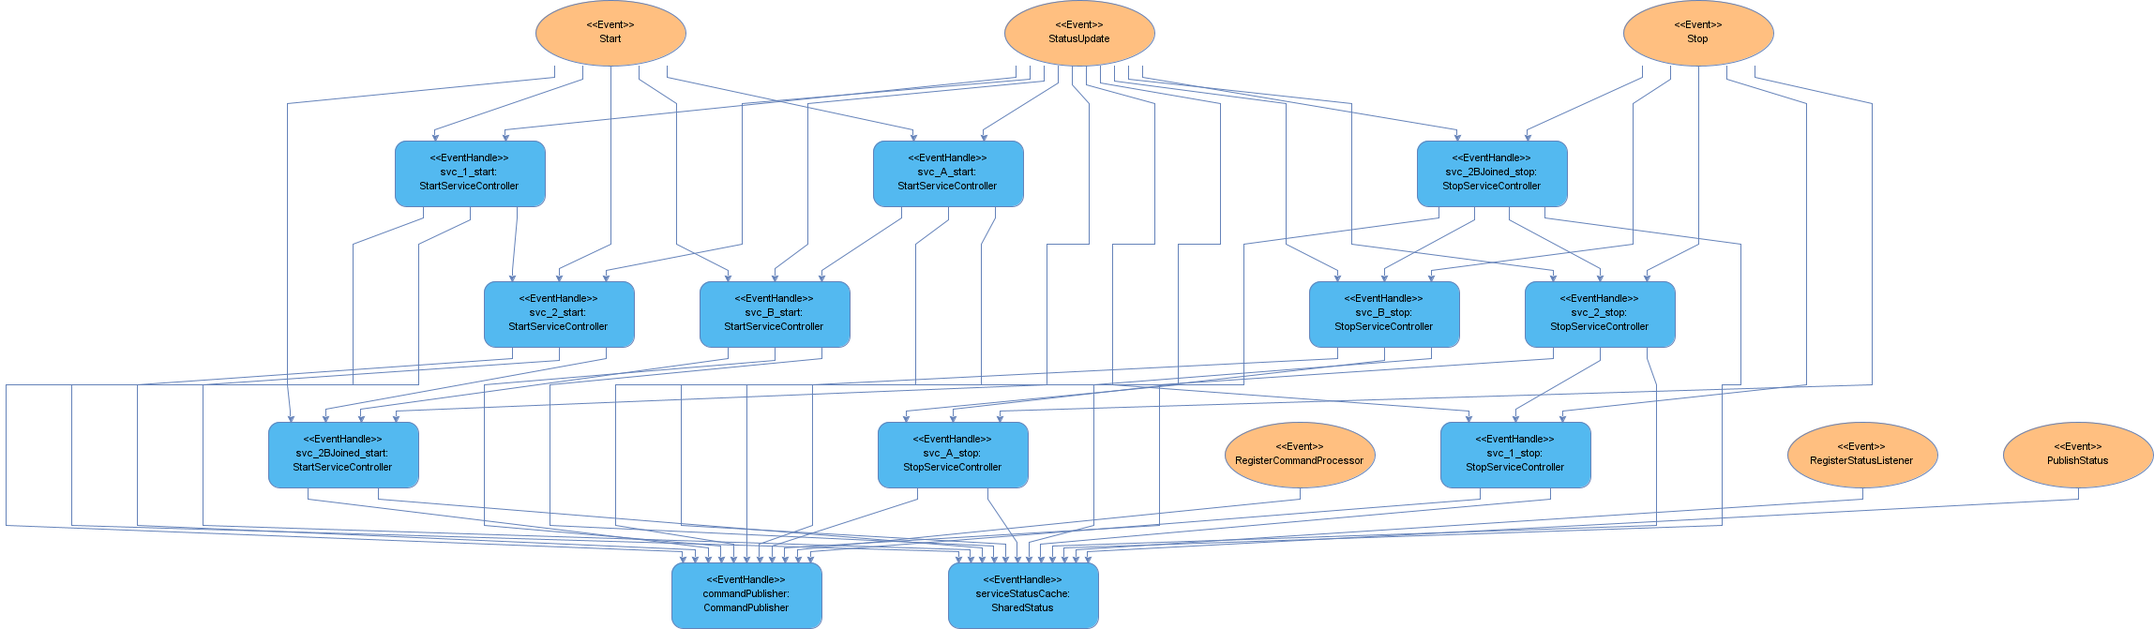
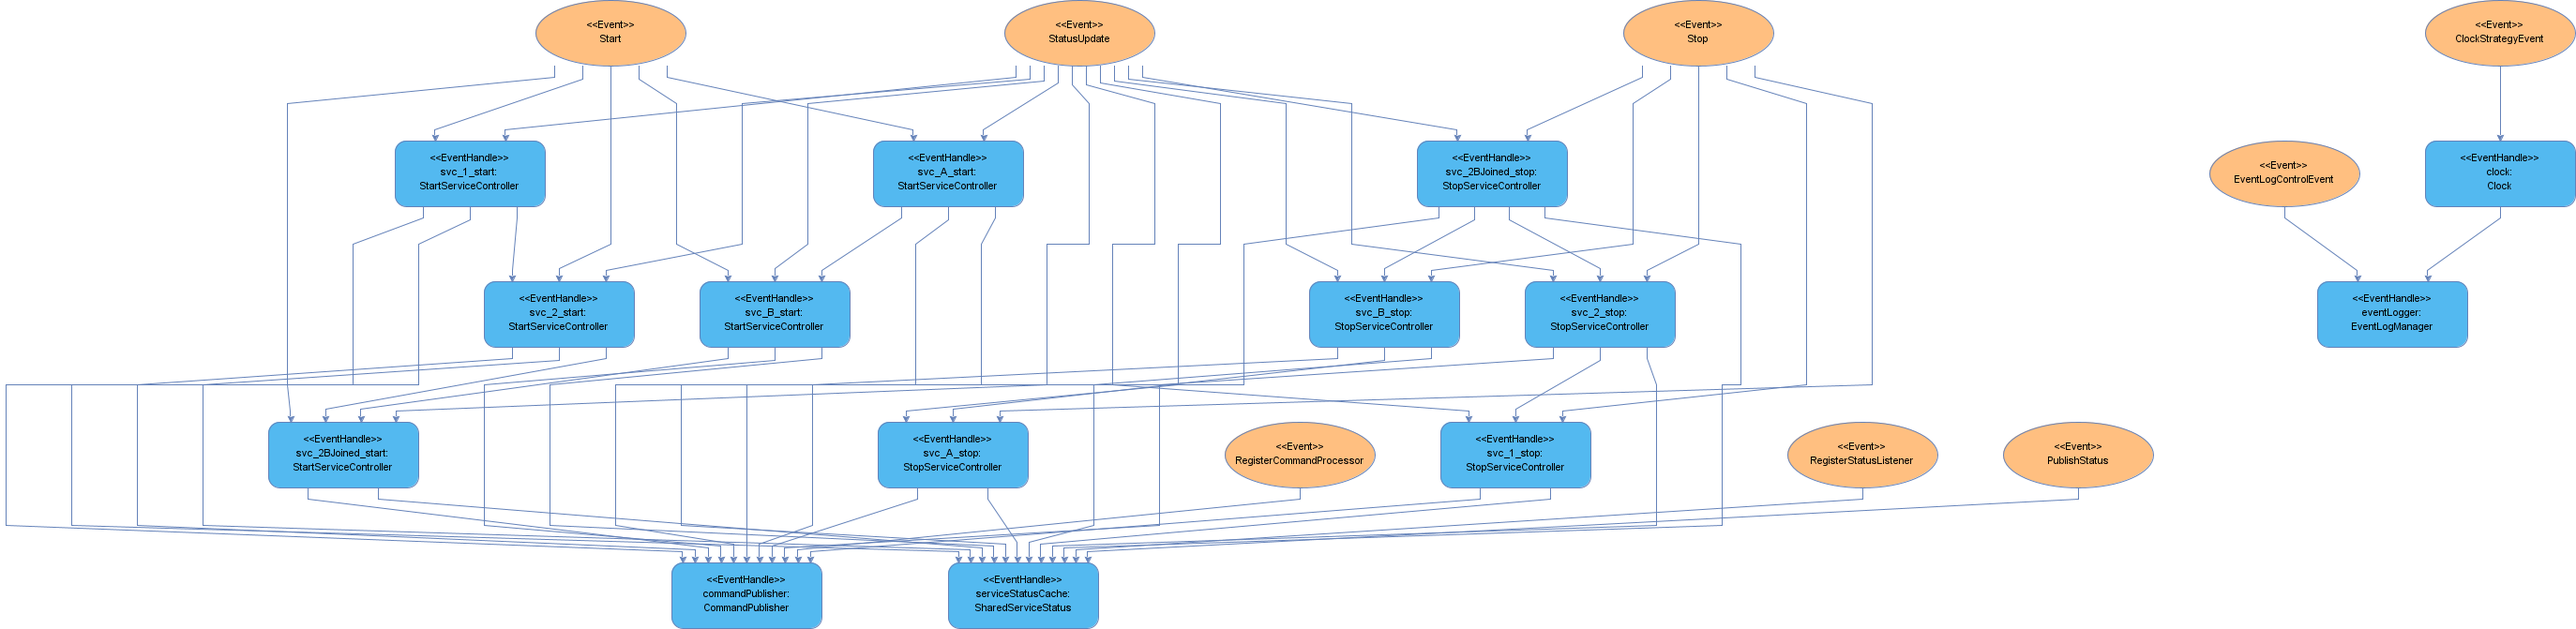
javadoc and refactoring

diff --git a/src/main/java/com/fluxtion/example/servicestater/impl/ServiceController.java b/src/main/java/com/fluxtion/example/servicestater/impl/ServiceController.java
@@ -1,5 +1,7 @@
-package com.fluxtion.example.servicestater;
+package com.fluxtion.example.servicestater.impl;
 
+import com.fluxtion.example.servicestater.ServiceEvent;
+import com.fluxtion.example.servicestater.ServiceStatus;
 import com.fluxtion.runtim.Named;
 import com.fluxtion.runtim.annotations.EventHandler;
 import com.fluxtion.runtim.annotations.Initialise;
@@ -14,6 +16,18 @@ import static com.fluxtion.example.servicestater.FluxtionSystemManager.toStartSe
 import static com.fluxtion.example.servicestater.FluxtionSystemManager.toStopServiceName;
 import static com.fluxtion.example.servicestater.ServiceStatus.*;
 
+/**
+ * Wraps the representation of an external {@link com.fluxtion.example.servicestater.Service}. The {@link ServiceController}
+ * is the data structure maintained by the graph i.e. it is a node in the graph. Reacts to events:
+ * <ul>
+ *     <li>{@link ServiceEvent.StatusUpdate} </li>
+ *     <li>{@link ServiceEvent.Start} </li>
+ *     <li>{@link ServiceEvent.Stop} </li>
+ * </ul>
+ *
+ * If a Service command can be executed because the dependency requirements are met then the command to execute will
+ * be published {@link CommandPublisher}, for a client app to execute after the graph cycle has completed.
+ */
 public abstract class ServiceController implements Named {
 
     protected final String serviceName;
@@ -22,16 +36,16 @@ public abstract class ServiceController implements Named {
     @PushReference
     private final CommandPublisher commandPublisher;
     @PushReference
-    private final SharedStatus sharedStatus;
+    private final SharedServiceStatus sharedServiceStatus;
 
-    public ServiceController(String serviceName, String controllerName, CommandPublisher commandPublisher, SharedStatus sharedStatus) {
+    public ServiceController(String serviceName, String controllerName, CommandPublisher commandPublisher, SharedServiceStatus sharedServiceStatus) {
         this.serviceName = serviceName;
         this.controllerName = controllerName;
         this.commandPublisher = commandPublisher;
-        this.sharedStatus = sharedStatus;
+        this.sharedServiceStatus = sharedServiceStatus;
     }
 
-    void addDependency(ServiceController dependency) {
+    public void addDependency(ServiceController dependency) {
         dependencies.add(dependency);
     }
 
@@ -44,7 +58,7 @@ public abstract class ServiceController implements Named {
     }
 
     public final ServiceStatus getStatus() {
-        return sharedStatus.getStatus(getServiceName());
+        return sharedServiceStatus.getStatus(getServiceName());
     }
 
     public String getServiceName() {
@@ -52,7 +66,7 @@ public abstract class ServiceController implements Named {
     }
 
     protected void setStatus(ServiceStatus serviceStatus) {
-        sharedStatus.setServiceStatus(getServiceName(), serviceStatus);
+        sharedServiceStatus.setServiceStatus(getServiceName(), serviceStatus);
     }
 
     protected void publishCommand(ServiceEvent.Command command) {
@@ -100,8 +114,8 @@ public abstract class ServiceController implements Named {
     }
 
     public static class StartServiceController extends ServiceController {
-        public StartServiceController(String serviceName, CommandPublisher commandPublisher, SharedStatus sharedStatus) {
-            super(serviceName, toStartServiceName(serviceName), commandPublisher, sharedStatus);
+        public StartServiceController(String serviceName, CommandPublisher commandPublisher, SharedServiceStatus sharedServiceStatus) {
+            super(serviceName, toStartServiceName(serviceName), commandPublisher, sharedServiceStatus);
         }
 
         @EventHandler(propagate = false)
@@ -137,8 +151,8 @@ public abstract class ServiceController implements Named {
     }
 
     public static class StopServiceController extends ServiceController {
-        public StopServiceController(String serviceName, CommandPublisher commandPublisher, SharedStatus sharedStatus) {
-            super(serviceName, toStopServiceName(serviceName), commandPublisher, sharedStatus);
+        public StopServiceController(String serviceName, CommandPublisher commandPublisher, SharedServiceStatus sharedServiceStatus) {
+            super(serviceName, toStopServiceName(serviceName), commandPublisher, sharedServiceStatus);
         }
 
         @EventHandler(propagate = false)

diff --git a/src/main/java/com/fluxtion/example/servicestater/FluxtionSystemManager.java b/src/main/java/com/fluxtion/example/servicestater/FluxtionSystemManager.java
@@ -2,8 +2,11 @@ package com.fluxtion.example.servicestater;
 
 import com.fluxtion.compiler.Fluxtion;
 import com.fluxtion.compiler.builder.node.SEPConfig;
-import com.fluxtion.example.servicestater.ServiceController.StartServiceController;
+import com.fluxtion.example.servicestater.impl.CommandPublisher;
+import com.fluxtion.example.servicestater.impl.ServiceController;
+import com.fluxtion.example.servicestater.impl.ServiceController.StartServiceController;
 import com.fluxtion.example.servicestater.ServiceEvent.Command;
+import com.fluxtion.example.servicestater.impl.SharedServiceStatus;
 import com.fluxtion.runtim.EventProcessor;
 import com.fluxtion.runtim.audit.EventLogControlEvent;
 import lombok.extern.java.Log;
@@ -12,7 +15,7 @@ import java.util.*;
 import java.util.function.Consumer;
 import java.util.stream.Collectors;
 
-import static com.fluxtion.example.servicestater.ServiceController.StopServiceController;
+import static com.fluxtion.example.servicestater.impl.ServiceController.StopServiceController;
 
 @Log
 public class FluxtionSystemManager {
@@ -21,7 +24,7 @@ public class FluxtionSystemManager {
     public static final String STOP_SUFFIX = "_stop";
     private final Map<String, ServiceController> managedStartServices = new HashMap<>();
     private final CommandPublisher commandPublisher = new CommandPublisher();
-    private final SharedStatus sharedStatus = new SharedStatus();
+    private final SharedServiceStatus sharedServiceStatus = new SharedServiceStatus();
     private EventProcessor startProcessor;
 
     public void buildSystemController(Service... serviceList) {
@@ -82,8 +85,8 @@ public class FluxtionSystemManager {
     }
 
     private void addServicesToMap(Service s) {
-        StartServiceController startServiceController = new StartServiceController(s.getName(), commandPublisher, sharedStatus);
-        StopServiceController stopServiceController = new StopServiceController(s.getName(), commandPublisher, sharedStatus);
+        StartServiceController startServiceController = new StartServiceController(s.getName(), commandPublisher, sharedServiceStatus);
+        StopServiceController stopServiceController = new StopServiceController(s.getName(), commandPublisher, sharedServiceStatus);
         managedStartServices.put(startServiceController.getName(), startServiceController);
         managedStartServices.put(stopServiceController.getName(), stopServiceController);
     }
@@ -105,20 +108,19 @@ public class FluxtionSystemManager {
                 .map(FluxtionSystemManager::toStopServiceName)
                 .map(managedStartServices::get)
                 .forEach(s -> s.addDependency(stopController));
-        ;
     }
 
     private void serviceStarter(SEPConfig cfg) {
         managedStartServices.values().forEach(cfg::addNode);
         cfg.addNode(commandPublisher);
-//        cfg.addEventAudit(EventLogControlEvent.LogLevel.TRACE);
+        cfg.addEventAudit(EventLogControlEvent.LogLevel.INFO);
     }
 
-    public static final String toStartServiceName(String serviceName) {
+    public static String toStartServiceName(String serviceName) {
         return serviceName + START_SUFFIX;
     }
 
-    public static final String toStopServiceName(String serviceName) {
+    public static String toStopServiceName(String serviceName) {
         return serviceName + STOP_SUFFIX;
     }
 }

diff --git a/src/main/java/com/fluxtion/example/servicestater/impl/SharedServiceStatus.java b/src/main/java/com/fluxtion/example/servicestater/impl/SharedServiceStatus.java
@@ -1,5 +1,7 @@
-package com.fluxtion.example.servicestater;
+package com.fluxtion.example.servicestater.impl;
 
+import com.fluxtion.example.servicestater.ServiceEvent;
+import com.fluxtion.example.servicestater.ServiceStatus;
 import com.fluxtion.runtim.Named;
 import com.fluxtion.runtim.annotations.EventHandler;
 import com.fluxtion.runtim.annotations.Initialise;
@@ -11,7 +13,14 @@ import java.util.Map;
 import java.util.function.Consumer;
 import java.util.stream.Collectors;
 
-public class SharedStatus implements Named {
+/**
+ * A cache for the current status of the external {@link com.fluxtion.example.servicestater.Service}, both
+ * {@link com.fluxtion.example.servicestater.impl.ServiceController.StartServiceController} and {@link com.fluxtion.example.servicestater.impl.ServiceController.StopServiceController}
+ * read and write the status cache to determine the state change to make.
+ *
+ * A client application can listen to status updates by calling {@link com.fluxtion.example.servicestater.FluxtionSystemManager#registerStatusListener(Consumer)}
+ */
+public class SharedServiceStatus implements Named {
 
     private Consumer<List<String>> statusListener = (strings -> {});
     private final Map<String, ServiceStatus> serviceStatusMap = new HashMap<>();

diff --git a/src/test/java/com/fluxtion/example/servicestater/FluxtionSystemManagerTest.java b/src/test/java/com/fluxtion/example/servicestater/FluxtionSystemManagerTest.java
@@ -20,7 +20,7 @@ class FluxtionSystemManagerTest {
         //build and register outputs
         FluxtionSystemManager fluxtionSystemManager = new FluxtionSystemManager();
         fluxtionSystemManager.buildSystemController(svc_1, svc_2, svc_A, svc_B, svc_2BJoined);
-        fluxtionSystemManager.traceMethodCalls(false);
+//        fluxtionSystemManager.traceMethodCalls(false);
         fluxtionSystemManager.registerCommandPublisher(new PublishCommandsToConsole());
         fluxtionSystemManager.registerStatusListener(new PublishStatusToConsole());
 
@@ -34,7 +34,7 @@ class FluxtionSystemManagerTest {
         fluxtionSystemManager.processStatusUpdate(ServiceEvent.newStartedUpdate( "svc_A"));
         fluxtionSystemManager.processStatusUpdate(ServiceEvent.newStartedUpdate( "svc_B"));
         //status query
-//        fluxtionSystemManager.publishAllServiceStatus();
+        fluxtionSystemManager.publishAllServiceStatus();
 
         fluxtionSystemManager.stopServices();
     }

diff --git a/src/main/java/com/fluxtion/example/servicestater/impl/CommandPublisher.java b/src/main/java/com/fluxtion/example/servicestater/impl/CommandPublisher.java
@@ -1,5 +1,6 @@
-package com.fluxtion.example.servicestater;
+package com.fluxtion.example.servicestater.impl;
 
+import com.fluxtion.example.servicestater.ServiceEvent;
 import com.fluxtion.runtim.Named;
 import com.fluxtion.runtim.annotations.AfterEvent;
 import com.fluxtion.runtim.annotations.EventHandler;
@@ -8,6 +9,10 @@ import java.util.ArrayList;
 import java.util.List;
 import java.util.function.Consumer;
 
+/**
+ * Publishes commands for a service that need to executed by the system, a client application registers a command executor
+ * by calling {@link com.fluxtion.example.servicestater.FluxtionSystemManager#registerCommandPublisher(Consumer)}
+ */
 public class CommandPublisher implements Named {
 
     private Consumer<List<ServiceEvent.Command>> commandPublisher = (command -> {});

diff --git a/src/main/java/com/fluxtion/example/servicestater/Service.java b/src/main/java/com/fluxtion/example/servicestater/Service.java
@@ -6,7 +6,8 @@ import java.util.Collections;
 import java.util.List;
 
 /**
- * A representation of an external service and its dependencies
+ * A representation of an external service and its dependencies. This service will be wrapped in the graph and controlled
+ * by {@link com.fluxtion.example.servicestater.impl.ServiceController.StartServiceController} and {@link com.fluxtion.example.servicestater.impl.ServiceController.StopServiceController}
  */
 public class Service implements Named {
 

diff --git a/src/main/java/com/fluxtion/example/servicestater/impl/StatusPublisher.java b/src/main/java/com/fluxtion/example/servicestater/impl/StatusPublisher.java
@@ -1,4 +1,4 @@
-package com.fluxtion.example.servicestater;
+package com.fluxtion.example.servicestater.impl;
 
 import com.fluxtion.example.servicestater.ServiceEvent.PublishStatus;
 import com.fluxtion.example.servicestater.ServiceEvent.RegisterStatusListener;
